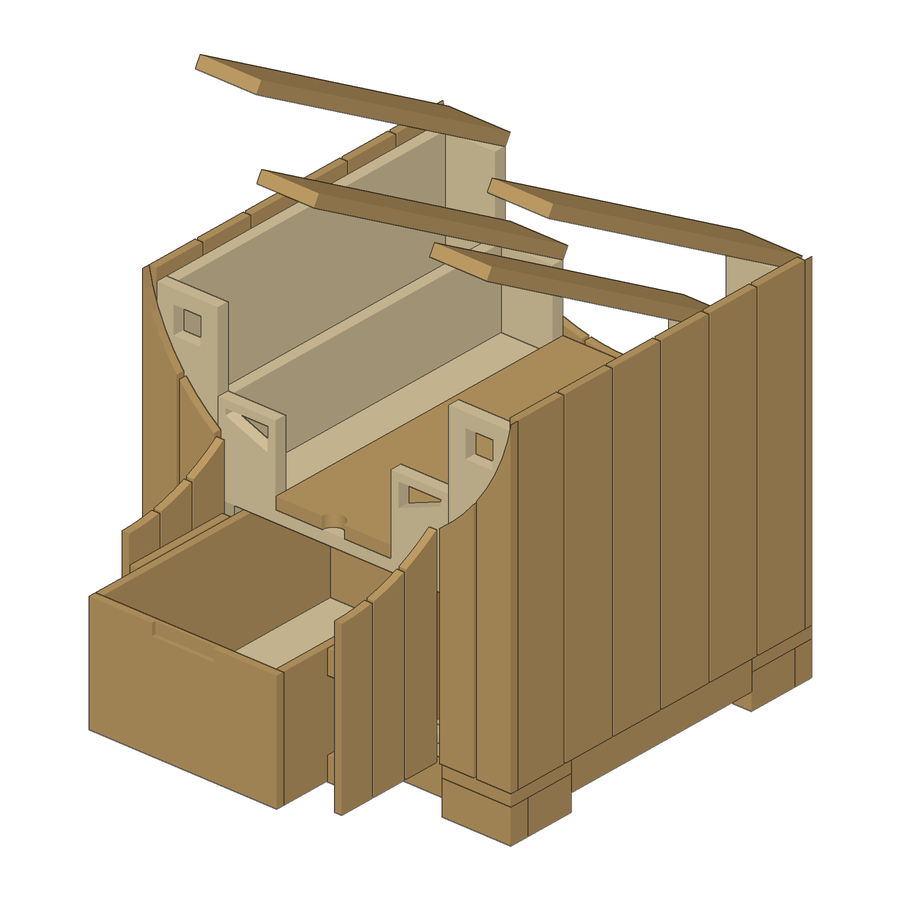
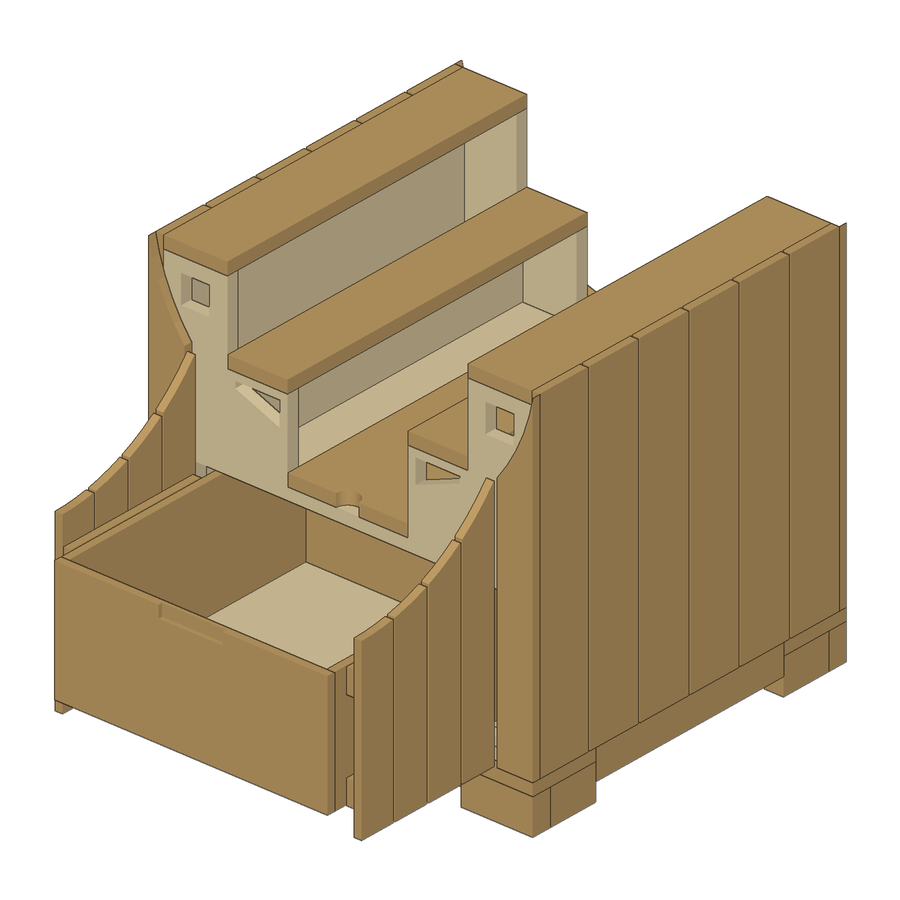
Cabinet: doors and drawer span the whole front; lids shown down
- door_span="full" (default) puts both door leaves and the pull-out drawer across the
  whole front between the corner slats (17 in drawer, 95 parts); "wide" and "centre"
  keep the narrower layouts.
- Showcase pose keeps the lids down (a sink sits on top); open_deg is opt-in.
- Tests, README, SKETCH_SPEC, cut list, drawings and renders regenerated;
  kernel interference check clean for closed, open, wide and single-door variants.

Claude-Session: https://claude.ai/code/session_017uaZNskFZj1b2HNuTtwSco

Changed region(s): [[0.0622, 0.0622, 0.9644, 0.9644], [0.7156, 0.8089, 0.7467, 0.84]]

diff --git a/src/fusionwright/cabinet.py b/src/fusionwright/cabinet.py
@@ -4,9 +4,9 @@ What the sketch shows and this generator models:
   * 24" W x 24" H x 22.5" D, vertical oak slats on all four sides (10 across front/back, 6 per side)
   * a large circular scoop: the front (and, by default, back) slat tops follow one arc from the two top corners
     down to the centre height, so the slats are real arc-cut parts
-  * a pair of hinged front doors across the middle three sections (the framed panel under the scoop in the 3/4
-    view), two hinges per door on the outer edges, push-to-open (no visible pull), opening onto one large bay that
-    holds a single pull-out drawer
+  * a pair of hinged front doors across the whole front between two fixed corner slats (the framed panel under the
+    scoop in the 3/4 view), two hinges per door on the outer edges, push-to-open (no visible pull), opening onto one
+    large bay that holds a single wide pull-out drawer
   * five hinged lids/doors side by side at three heights: towers 24", steps 19", centre 14"
   * stepped plywood carcass behind the slats; the carcass boxes stand proud of the arc; dark square openings on the
     tower fronts and dark wedge openings on the step fronts act as the finger pulls
@@ -57,7 +57,7 @@ def build_cabinet(
     door_open_deg: float = 0.0,
     door_pull: str = "push",
     door_leaves: int = 2,
-    door_span: str = "wide",
+    door_span: str = "full",
     drawer: bool = True,
     drawer_out: float = 0.0,
     drawer_depth: float = 18.0,
@@ -89,9 +89,9 @@ def build_cabinet(
         raise ValueError("door_pull must be 'push' (push-to-open, nothing visible) or 'bar' (slim vertical pull).")
     if not 0.0 <= door_open_deg <= 120.0:
         raise ValueError("door_open_deg must be between 0 and 120 degrees (0 = closed).")
-    if door_span not in ("wide", "centre"):
-        raise ValueError("door_span must be 'wide' (doors and drawer across the centre and both step sections, the "
-                         "default) or 'centre' (only the centre section).")
+    if door_span not in ("full", "wide", "centre"):
+        raise ValueError("door_span must be 'full' (doors and drawer across the whole front between two corner slats, "
+                         "the default), 'wide' (centre and both step sections) or 'centre' (centre section only).")
     if door_leaves not in (1, 2):
         raise ValueError("door_leaves must be 2 (a pair of doors, the default) or 1 (a single door hinged on the left).")
     if not 6.0 <= drawer_depth <= 20.0:
@@ -116,9 +116,14 @@ def build_cabinet(
     for w in section_widths:
         x_edges.append(x_edges[-1] + w)
     y_front, y_back = skin_t, depth - skin_t        # inside faces of the front / back skin
-    wide = bool(door) and door_span == "wide"
-    sec_a, sec_b = (1, 3) if wide else (2, 2)       # first / last section behind the doors
+    sec_a, sec_b = {"full": (0, 4), "wide": (1, 3), "centre": (2, 2)}[door_span]   # first / last section behind the doors
+    merged = bool(door) and door_span != "centre"   # one front panel and one drawer bay across several sections
     x_lo, x_hi = x_edges[sec_a], x_edges[sec_b + 1]
+    sw_x, pitch_x = _slats(width, front_slats, slat_gap)
+    # the bay runs between the end walls (full) or between the tower dividers (wide); slides sit on those faces
+    bay_lo = x_edges[sec_a] + (ply_t if sec_a == 0 else ply_t / 2)
+    bay_hi = x_edges[sec_b + 1] - (ply_t if sec_b == 4 else ply_t / 2)
+    bay_top = heights[2] - lid_t
     carcass_z = base_z + ply_t
 
     p = Project(
@@ -147,28 +152,36 @@ def build_cabinet(
 
     # ---------------------------------------------------------------- plywood carcass (my proposal)
     box_board("Bottom panel", "bottom panel", PLY, skin_t, skin_t, base_z, inner_w, inner_d, ply_t, "x")
-    if wide:                                        # one front wall across the centre and both step sections
+    if merged:                                      # one front wall across all the sections behind the doors
         tops = [heights[i] - lid_t for i in range(5)]
-        pts = [(x_edges[1], carcass_z), (x_edges[4], carcass_z), (x_edges[4], tops[3]), (x_edges[3], tops[3]),
-               (x_edges[3], tops[2]), (x_edges[2], tops[2]), (x_edges[2], tops[1]), (x_edges[1], tops[1])]
+        pts = [(x_edges[sec_a], carcass_z), (x_edges[sec_b + 1], carcass_z)]
+        for i in range(sec_b, sec_a - 1, -1):       # stepped top edge, right to left
+            pts += [(x_edges[i + 1], tops[i]), (x_edges[i], tops[i])]
         ops = [sh.prism("xz", sh.polygon(pts), y_front, y_front + ply_t)]
-        ox0, ox1 = x_lo + 0.4, x_hi - 0.4
+        if door_span == "full":                     # leave one corner slat plus plywood stile each side for the hinges
+            ox0, ox1 = pitch_x + 0.1, width - pitch_x - 0.1
+        else:
+            ox0, ox1 = x_lo + 0.4, x_hi - 0.4
         oz0, oz1 = carcass_z + 0.5, tops[2] - 0.75
         ops.append(sh.box(ox0, y_front - 0.05, oz0, ox1 - ox0, ply_t + 0.1, oz1 - oz0, "cut"))
         door_open_box.update(x0=ox0, x1=ox1, z0=oz0, z1=oz1)
-        for i in (1, 3):                            # the wedge finger openings stay on the step sections
-            zt = tops[i] - 0.5
-            xa, xb = x_edges[i] + 0.5, x_edges[i + 1] - 0.5
-            wp = ([(xa, zt), (xb, zt), (xb, zt - 1.5), (xa, zt - 0.4)] if i == 1
-                  else [(xa, zt), (xb, zt), (xb, zt - 0.4), (xa, zt - 1.5)])
-            ops.append(sh.prism("xz", sh.polygon(wp), y_front - 0.05, y_front + ply_t + 0.05, "cut"))
-        add(Board.from_shape("Front wall S2-S4", "front wall", PLY, ops, None, "x",
-                             f"one panel across the three middle sections; {ox1 - ox0:.1f} in wide door opening for "
-                             "the doors and drawer, wedge finger openings above"))
+        for i in range(sec_a, sec_b + 1):           # the finger openings stay on the tower and step sections
+            if i in (0, 4):
+                s_, cxm = 1.75, x_edges[i] + section_widths[i] / 2
+                ops.append(sh.box(cxm - s_ / 2, y_front - 0.05, tops[i] - 0.9 - s_, s_, ply_t + 0.1, s_, "cut"))
+            elif i in (1, 3):
+                zt = tops[i] - 0.5
+                xa, xb = x_edges[i] + 0.5, x_edges[i + 1] - 0.5
+                wp = ([(xa, zt), (xb, zt), (xb, zt - 1.5), (xa, zt - 0.4)] if i == 1
+                      else [(xa, zt), (xb, zt), (xb, zt - 0.4), (xa, zt - 1.5)])
+                ops.append(sh.prism("xz", sh.polygon(wp), y_front - 0.05, y_front + ply_t + 0.05, "cut"))
+        add(Board.from_shape(f"Front wall S{sec_a + 1}-S{sec_b + 1}", "front wall", PLY, ops, None, "x",
+                             f"one panel across sections {sec_a + 1}-{sec_b + 1}; {ox1 - ox0:.1f} in wide door opening "
+                             "for the doors and drawer, finger openings above"))
     for i in range(5):
         wall_top = heights[i] - lid_t
         for side, y0 in (("Front", y_front), ("Back", y_back - ply_t)):
-            if wide and side == "Front" and i in (1, 2, 3):
+            if merged and side == "Front" and sec_a <= i <= sec_b:
                 continue
             sx0, sw = x_edges[i], section_widths[i]
             ops = [sh.box(sx0, y0, carcass_z, sw, ply_t, wall_top - carcass_z)]
@@ -178,7 +191,7 @@ def build_cabinet(
                 top = wall_top - 0.9
                 ops.append(sh.box(cx - s / 2, y0 - 0.05, top - s, s, ply_t + 0.1, s, "cut"))
                 note = "1-3/4 in square finger opening"
-            elif side == "Front" and i == 2 and door and not wide:  # access opening behind the front door
+            elif side == "Front" and i == 2 and door and not merged:  # access opening behind the front door
                 ox0, ox1 = sx0 + 0.4, sx0 + sw - 0.4
                 oz0, oz1 = carcass_z + 0.5, wall_top - 0.75
                 ops.append(sh.box(ox0, y0 - 0.05, oz0, ox1 - ox0, ply_t + 0.1, oz1 - oz0, "cut"))
@@ -198,18 +211,21 @@ def build_cabinet(
     box_board("End wall right", "end wall", PLY, width - skin_t - ply_t, y_front + ply_t, carcass_z, ply_t, wall_d,
               end_h, "y")
     for k in range(1, 5):
-        if wide and k in (2, 3):                    # the drawer bay runs through the middle: no dividers inside it
+        div_top = min(heights[k - 1], heights[k]) - lid_t
+        z_lo = carcass_z
+        if merged and sec_a <= k - 1 and k <= sec_b:  # inside the drawer bay: only the part above the shelves is kept
+            z_lo = bay_top
+        if div_top - z_lo < 0.5:
             continue
-        div_h = min(heights[k - 1], heights[k]) - lid_t - carcass_z
-        box_board(f"Divider D{k}", "divider", PLY, x_edges[k] - ply_t / 2, y_front + ply_t, carcass_z, ply_t, wall_d,
-                  div_h, "y")
+        box_board(f"Divider D{k}", "divider", PLY, x_edges[k] - ply_t / 2, y_front + ply_t, z_lo, ply_t, wall_d,
+                  div_top - z_lo, "y")
 
-    if wide:                                        # shelves over the drawer bay roof the step compartments
-        bay_top = heights[2] - lid_t
-        for nm, xa, xb in (("Bay shelf S2", x_edges[1] + ply_t / 2, x_edges[2]),
-                           ("Bay shelf S4", x_edges[3], x_edges[4] - ply_t / 2)):
-            box_board(nm, "shelf", PLY, xa, y_front + ply_t, bay_top - ply_t, xb - xa, wall_d, ply_t, "x",
-                      "floor of the step compartment above, roof of the drawer bay")
+    if merged:                                      # shelves roof the drawer bay and floor the compartments above it
+        for nm, xa, xb in (("Bay shelf left", bay_lo, x_edges[2]), ("Bay shelf right", x_edges[3], bay_hi)):
+            if xb - xa > 0.5:
+                box_board(nm, "shelf", PLY, xa, y_front + ply_t, bay_top - ply_t, xb - xa, wall_d, ply_t, "x",
+                          "roof of the drawer bay, floor of the compartments above; rest it on cleats screwed to the "
+                          "front, back and divider walls")
 
     # ---------------------------------------------------------------- hinged lids / doors (hinged at the back)
     for i in range(5):
@@ -227,10 +243,10 @@ def build_cabinet(
         p.hardware.append({"item": "Butt hinge 2 in", "qty": 2, "for": f"Lid {labels[i][:2]}"})
 
     # ---------------------------------------------------------------- vertical oak slats, four sides
-    sw_x, pitch_x = _slats(width, front_slats, slat_gap)
-    # front slats whose centre falls inside the door span form the door(s)
+    # front slats whose centre falls inside the door span form the door(s); in 'full' the corner slats stay fixed
+    sel_lo, sel_hi = (x_lo + pitch_x, x_hi - pitch_x) if door_span == "full" else (x_lo, x_hi)
     door_js = [j for j in range(front_slats)
-               if door and x_lo < j * pitch_x + sw_x / 2 < x_hi]
+               if door and sel_lo < j * pitch_x + sw_x / 2 < sel_hi]
     if door and not door_js:
         raise ValueError("The door span is too narrow for a door: use fewer front_slats or a wider section.")
     if door and door_leaves == 2 and len(door_js) < 2:
@@ -300,12 +316,12 @@ def build_cabinet(
     # ---------------------------------------------------------------- pull-out drawer behind the doors
     if door_js and drawer:
         t_d = 0.5                                                     # drawer sides / front / back (solid oak)
-        cx_c = (x_lo + x_hi) / 2
-        dw = (x_hi - x_lo - ply_t) - 1.0                              # 1/2 in each side for the slides
+        cx_c = (bay_lo + bay_hi) / 2
+        dw = (bay_hi - bay_lo) - 1.0                                  # 1/2 in each side for the slides
         # doors standing open at 90 deg reach 1 in in front of their hinge edge: keep the drawer clear of them
         reach = 1.0 + 0.05
-        left_lim = next((lf["x0"] + reach for lf in leaves if lf["hinge"] == "left"), x_lo)
-        right_lim = next((lf["x1"] - reach for lf in leaves if lf["hinge"] == "right"), x_hi)
+        left_lim = next((lf["x0"] + reach for lf in leaves if lf["hinge"] == "left"), bay_lo)
+        right_lim = next((lf["x1"] - reach for lf in leaves if lf["hinge"] == "right"), bay_hi)
         half_w = min(dw / 2, cx_c - left_lim, right_lim - cx_c)
         dw = 2 * half_w
         dx0 = cx_c - dw / 2
@@ -317,7 +333,7 @@ def build_cabinet(
         front_ops = [sh.box(dx0, dy0, dz0, dw, t_d, dh),
                      sh.box(cx_c - 2.0, dy0 - 0.05, dz0 + dh - 0.75, 4.0, 0.3, 0.8, "cut")]    # finger notch, top edge
         add(Board.from_shape("Drawer front", "drawer", OAK, front_ops, None, "x",
-                             "hidden behind the doors; 4 in finger notch in the top edge instead of a handle"))
+                             "hidden behind the doors; finger notch in the top edge instead of a handle"))
         box_board("Drawer back", "drawer", OAK, dx0, dy0 + drawer_depth - t_d, dz0, dw, t_d, dh, "x")
         for sd, xs in (("left", dx0), ("right", dx0 + dw - t_d)):
             box_board(f"Drawer side {sd}", "drawer", OAK, xs, dy0 + t_d, dz0, t_d, drawer_depth - 2 * t_d, dh, "y")
@@ -373,11 +389,12 @@ def build_cabinet(
 
     p.notes += [
         "Front doors: the framed panel under the scoop in the 3/4 view is a pair of doors with two hinges per door on "
-        "the outer edges, push-to-open so nothing shows on the front. With door_span='wide' (default) they span the "
-        "centre and both step sections, so the doors open onto one big bay holding a single pull-out drawer on 18 in "
-        "full-extension slides, and the step lids open onto compartments above the bay. door_span='centre' keeps the "
-        "doors and drawer to the centre section only; door_leaves=1 gives a single door, door=False none, "
-        "drawer=False an empty bay; door_open_deg=90 and drawer_out=12 show it open.",
+        "the outer edges, push-to-open so nothing shows on the front. With door_span='full' (default) they span the "
+        "whole front between a fixed corner slat on each side, onto one big bay holding a single wide pull-out drawer "
+        "on 18 in full-extension slides; shelves over the bay roof the tower and step compartments above it, which "
+        "still open through their lids. door_span='wide' limits it to the centre and step sections, 'centre' to the "
+        "centre section; door_leaves=1 gives a single door, door=False none, drawer=False an empty bay; "
+        "door_open_deg=90 and drawer_out=12 show it open.",
         "Read from the sketch: arc-cut slat tops, five lids at 24/19/14 in, stepped boxes, L-shaped corner feet hiding "
         "four casters (plate screwed under a top plate), slats stopping above the floor on an apron.",
         "Interpretations to confirm with the designer: the dark squares (tower fronts) and dark wedges (step fronts) "

diff --git a/tests/unit/test_core.py b/tests/unit/test_core.py
@@ -43,19 +43,20 @@ def test_sketch_details_are_present():
     assert sum(n.endswith("wheel") for n in names) == 4 and sum(n.endswith("top plate") for n in names) == 4
     # wedge and square openings are cuts through the plywood fronts
     cuts = [b for b in p.boards if b.shape and any(o["op"] == "cut" for o in b.shape)]
-    assert len(cuts) >= 5
+    assert len(cuts) >= 3
 
 
 def test_front_doors_open_onto_the_centre_compartment_with_a_drawer():
     p = build_cabinet()
     doors = [b for b in p.boards if "(door" in b.name]
-    assert len(doors) == 6 and sum(b.name.startswith("Door") and "batten" in b.name for b in p.boards) == 4
-    assert {b.name.split("(")[1] for b in doors} == {"door L)", "door R)"}          # two leaves, three slats each
-    wall = next(b for b in p.boards if b.name == "Front wall S2-S4")      # one panel across centre + both steps
+    assert len(doors) == 8 and sum(b.name.startswith("Door") and "batten" in b.name for b in p.boards) == 4
+    assert {b.name.split("(")[1] for b in doors} == {"door L)", "door R)"}          # two leaves, four slats each
+    wall = next(b for b in p.boards if b.name == "Front wall S1-S5")      # one panel across the whole front
     assert any(o["op"] == "cut" for o in wall.shape)                     # the opening the doors cover
     assert not any(b.name in ("Divider D2", "Divider D3") for b in p.boards)       # the bay runs through the middle
-    assert {b.name for b in p.boards if b.group == "shelf"} == {"Bay shelf S2", "Bay shelf S4"}
+    assert {b.name for b in p.boards if b.group == "shelf"} == {"Bay shelf left", "Bay shelf right"}
     narrow = build_cabinet(door_span="centre")
+    assert len([b for b in build_cabinet(door_span="wide").boards if "(door" in b.name]) == 6
     assert len([b for b in narrow.boards if "(door" in b.name]) == 4 and any(b.name == "Divider D2" for b in narrow.boards)
     assert next(b for b in p.boards if b.name == "Drawer front").sx > 3 * next(b for b in narrow.boards if b.name == "Drawer front").sx / 1.5
     hinge = next(h for h in p.hardware if "Butt hinge 1-1/2" in h["item"])
@@ -79,7 +80,7 @@ def test_front_doors_open_onto_the_centre_compartment_with_a_drawer():
     out_front = next(b for b in opened.boards if b.name == "Drawer front")
     assert out_front.y == pytest.approx(next(b for b in p.boards if b.name == "Drawer front").y - 12)
     assert not any("(door" in b.name for b in build_cabinet(door=False).boards)
-    assert len([b for b in build_cabinet(door_leaves=1).boards if "(door)" in b.name]) == 6
+    assert len([b for b in build_cabinet(door_leaves=1).boards if "(door)" in b.name]) == 8
     assert not any(b.group == "drawer" for b in build_cabinet(drawer=False).boards)
 
 

diff --git a/src/fusionwright/server.py b/src/fusionwright/server.py
@@ -248,14 +248,14 @@ def wood_design_cabinet(width: float = 24.0, depth: float = 22.5, tower_h: float
                         skin_t: float = 0.5, ply_t: float = 0.75, lid_t: float = 0.75, base_z: float = 3.25,
                         caster_h: float = 2.5, foot_arm: float = 4.5, arc_on_back: bool = True,
                         open_deg: float = 0.0, door: bool = True, door_open_deg: float = 0.0,
-                        door_pull: str = "push", door_leaves: int = 2, door_span: str = "wide", drawer: bool = True,
+                        door_pull: str = "push", door_leaves: int = 2, door_span: str = "full", drawer: bool = True,
                         drawer_out: float = 0.0, drawer_depth: float = 18.0,
                         section_widths: list[float] | None = None,
                         name: str = "Rolling oak slat cabinet") -> dict:
     """Design the rolling oak-slat cabinet from the hand sketch (inches): vertical oak slats on four sides, a circular
     scoop cut through the slat tops, five hinged lids at 24/19/14 in, stepped plywood boxes with finger openings,
-    a pair of push-to-open front doors (2 hinges each) across the centre and both step sections (door_span='centre'
-    for the centre only) onto one large bay holding a pull-out drawer (door_open_deg=90 and drawer_out=12 show them open; door_pull='bar' adds slim vertical pulls;
+    a pair of push-to-open front doors (2 hinges each) across the whole front between two fixed corner slats (door_span='wide' / 'centre'
+    for less) onto one large bay holding a pull-out drawer (door_open_deg=90 and drawer_out=12 show them open; door_pull='bar' adds slim vertical pulls;
     door_leaves=1 gives one door), and four L-shaped corner feet that hide swivel casters. open_deg shows the lids
     hinged open (try 30).
     Writes cut list, three-view drawing, sheet layout, STL, OBJ, project.json and, if CadQuery is installed, an exact

diff --git a/tests/unit/test_mcp_server.py b/tests/unit/test_mcp_server.py
@@ -114,7 +114,7 @@ def test_cad_check_and_export_on_the_cabinet(tmp_path):
             await c.call_tool("wood_design_cabinet", {"open_deg": 30})
             chk = await c.call_tool("cad_check", {})
             data = json.loads(_text(chk))
-            assert data["parts"] == 97 and data["all_valid"] is True and data["problems"] == []
+            assert data["parts"] == 95 and data["all_valid"] is True and data["problems"] == []
             tall = json.loads(_text(await c.call_tool("cad_check", {"expected_size_in": [24, 22.5, 24]})))
             assert tall["passed"] is False and "Z size" in tall["problems"][0]      # open lids rise above 24 in
             ex = await c.call_tool("cad_export", {"format": "step"})

diff --git a/README.md b/README.md
@@ -90,7 +90,7 @@ The core tools know nothing about furniture. Each `fusion_*` / `cad_*` call stan
 |---|---|---|
 | [`examples/enclosure_cadquery.py`](examples/enclosure_cadquery.py) | open source (`cad_run`) | shell, fillets, hole patterns, slots, multi-part colours |
 | [`examples/flange_fusion_run.py`](examples/flange_fusion_run.py) | Fusion (`fusion_run`) | sketches, extrude/join/cut, picking profiles by area, checking against hand arithmetic |
-| [Woodworking add-on](#woodworking-add-on-an-end-to-end-example) | both | a 97-part design, cut list, drawings, hinged parts, built in Fusion |
+| [Woodworking add-on](#woodworking-add-on-an-end-to-end-example) | both | a 95-part design, cut list, drawings, hinged parts, built in Fusion |
 
 ## Make your own add-on
 
@@ -102,15 +102,15 @@ Describe a piece of furniture; get a verified Fusion model, a cut list, a sheet-
 
 ![Rolling oak slat cabinet, rendered by Fusion](docs/examples/woodworking/render.png)
 
-> Built, rendered and checked end to end through this server, from a hand sketch: 97 named parts (arc-cut slats, hinged lids, a pair of push-to-open front doors with two hinges each across the middle three sections, one wide pull-out drawer behind them, finger openings, L-shaped feet hiding four casters), 24 x 22.5 x 24 in, zero interferences, one 4x8 plywood sheet, ~10.9 board feet of oak (12.6 to buy). The Fusion model and the open-source CadQuery model agree to the cubic inch. How the sketch was read: [SKETCH_SPEC.md](docs/examples/woodworking/SKETCH_SPEC.md); the generated [cut list](docs/examples/woodworking/example_cutlist.md).
+> Built, rendered and checked end to end through this server, from a hand sketch: 95 named parts (arc-cut slats, hinged lids, a pair of push-to-open front doors with two hinges each spanning the whole front between the corner slats, one wide pull-out drawer behind them, finger openings, L-shaped feet hiding four casters), 24 x 22.5 x 24 in, zero interferences, one 4x8 plywood sheet, ~11.2 board feet of oak. The Fusion model and the open-source CadQuery model agree to the cubic inch. How the sketch was read: [SKETCH_SPEC.md](docs/examples/woodworking/SKETCH_SPEC.md); the generated [cut list](docs/examples/woodworking/example_cutlist.md).
 
-![Same cabinet with the lids and both front doors open and the drawer pulled out, built with no Autodesk software](docs/examples/woodworking/open_iso_opensource.png)
+![Same cabinet with both front doors open and the drawer pulled out (the lids stay down: a sink sits on top), built with no Autodesk software](docs/examples/woodworking/open_iso_opensource.png)
 
 ![The same open pose built in Fusion](docs/examples/woodworking/fusion_open_render.png)
 
 ![Builder drawing generated with no CAD](docs/examples/woodworking/drawing_three_view.svg)
 
-Try: *"Design a 24-inch rolling oak slat cabinet with three stepped lids, double push-to-open front doors and a pull-out drawer, build it in Fusion, check it and show me."* Details: `open_deg`, `door_open_deg` and `drawer_out` pose the lids, doors and drawer open; `door_pull="bar"` swaps the hidden push latches for slim vertical pulls; `door_span="centre"` limits the doors and drawer to the centre section; `door_leaves=1` gives a single door; `door=False` / `drawer=False` remove them.
+Try: *"Design a 24-inch rolling oak slat cabinet with three stepped lids, double push-to-open front doors and a pull-out drawer, build it in Fusion, check it and show me."* Details: `door_open_deg` and `drawer_out` pose the doors and drawer open (`open_deg` also lifts the lids, off by default); `door_pull="bar"` swaps the hidden push latches for slim vertical pulls; `door_span` is `"full"` (default, the whole front), `"wide"` (middle three sections) or `"centre"`; `door_leaves=1` gives a single door; `door=False` / `drawer=False` remove them.
 
 ## How it compares
 
@@ -124,7 +124,7 @@ See [SECURITY.md](SECURITY.md). In short: loopback only, bearer token (`~/.fusio
 ## What's tested
 
 * 30 unit tests: pure Python (including a signed-volume check that exported meshes are outward-facing and a proof that no cabinet boards overlap), the add-in's HTTP layer with a stubbed Fusion, a real stdio MCP round trip, and the open-source CAD backend (skipped when CadQuery is not installed).
-* Live tests against a real Fusion: build and kernel-verify the 97-part cabinet, views that must differ from each other, 5 export formats, a real render, rollback, API lookup, and a full MCP client round trip that returns images.
+* Live tests against a real Fusion: build and kernel-verify the 95-part cabinet, views that must differ from each other, 5 export formats, a real render, rollback, API lookup, and a full MCP client round trip that returns images.
 * A 30-case capability suite (`tests/integration/capability_suite.py`) covering sketches, constraints, extrude/cut/revolve/sweep/loft, fillet/shell/chamfer/hole, patterns, booleans, components + joints, parameters, timeline edits, materials, measurement, 8 export formats, STEP re-import, CAM setup creation, configurations, rendering and more.
 
 See [docs/COVERAGE.md](docs/COVERAGE.md) for what the Fusion API can and cannot do and [docs/GOTCHAS.md](docs/GOTCHAS.md) for API traps found along the way.

diff --git a/docs/examples/woodworking/example_cutlist.md b/docs/examples/woodworking/example_cutlist.md
@@ -10,27 +10,27 @@
 | 4 | White oak (solid) | 3/4" | 4 1/2" | 4 1/2" | Foot FL top plate, Foot FR top plate, Foot BL top plate +1 more |
 | 12 | White oak (solid) | 1/2" | 3 1/2" | 20 3/4" | Slat left 01, Slat left 02, Slat left 03 +9 more |
 | 4 | White oak (solid) | 1/2" | 2 1/4" | 20 3/4" | Slat front 01, Slat front 10, Slat back 01 +1 more |
+| 2 | White oak (solid) | 1/2" | 7 1/2" | 17 1/16" | Drawer front, Drawer back |
 | 2 | White oak (solid) | 1/2" | 7 1/2" | 17" | Drawer side left, Drawer side right |
-| 4 | White oak (solid) | 1/2" | 2 1/4" | 15 3/8" | Slat front 02, Slat front 09, Slat back 02 +1 more |
+| 4 | White oak (solid) | 1/2" | 2 1/4" | 15 3/8" | Slat front 02 (door L), Slat front 09 (door R), Slat back 02 +1 more |
 | 2 | White oak (solid) | 1/2" | 1 7/8" | 15" | Apron front, Apron back |
 | 2 | White oak (solid) | 1/2" | 1 7/8" | 13 1/2" | Apron left, Apron right |
 | 4 | White oak (solid) | 1/2" | 2 1/4" | 13 1/8" | Slat front 03 (door L), Slat front 08 (door R), Slat back 03 +1 more |
-| 2 | White oak (solid) | 1/2" | 7 1/2" | 12 1/4" | Drawer front, Drawer back |
 | 4 | White oak (solid) | 1/2" | 2 1/4" | 11 3/4" | Slat front 04 (door L), Slat front 07 (door R), Slat back 04 +1 more |
 | 4 | White oak (solid) | 1/2" | 2 1/4" | 11" | Slat front 05 (door L), Slat front 06 (door R), Slat back 05 +1 more |
-| 4 | White oak (solid) | 1/2" | 1 1/2" | 6 15/16" | Door L batten low, Door L batten high, Door R batten low +1 more |
+| 4 | White oak (solid) | 1/2" | 1 1/2" | 9 5/16" | Door L batten low, Door L batten high, Door R batten low +1 more |
 | 1 | Birch plywood | 3/4" | 21 1/2" | 23" | Bottom panel |
+| 1 | Birch plywood | 3/4" | 19 1/4" | 23" | Front wall S1-S5 |
 | 2 | Birch plywood | 3/4" | 19 1/4" | 20" | End wall left, End wall right |
-| 2 | Birch plywood | 3/4" | 14 1/4" | 20" | Divider D1, Divider D4 |
-| 2 | Birch plywood | 3/4" | 3 3/8" | 20" | Bay shelf S2, Bay shelf S4 |
-| 4 | Birch plywood | 3/4" | 4" | 19 1/4" | Front wall S1, Back wall S1, Front wall S5 +1 more |
-| 1 | Birch plywood | 3/4" | 14 1/4" | 15" | Front wall S2-S4 |
+| 2 | Birch plywood | 3/4" | 7" | 20" | Bay shelf left, Bay shelf right |
+| 2 | Birch plywood | 3/4" | 5" | 20" | Divider D1, Divider D4 |
+| 2 | Birch plywood | 3/4" | 4" | 19 1/4" | Back wall S1, Back wall S5 |
 | 2 | Birch plywood | 3/4" | 3 3/4" | 14 1/4" | Back wall S2, Back wall S4 |
 | 1 | Birch plywood | 3/4" | 7 1/2" | 9 1/4" | Back wall S3 |
-| 1 | Birch plywood | 1/4" | 11 1/4" | 17" | Drawer bottom |
+| 1 | Birch plywood | 1/4" | 16 1/16" | 17" | Drawer bottom |
 
-**Solid lumber:** 10.87 board feet net, buy about 12.5 bf (+15% waste).
-**Sheet goods:** 19.85 sq ft net (see the nesting layout for sheets to buy).
+**Solid lumber:** 11.17 board feet net, buy about 12.8 bf (+15% waste).
+**Sheet goods:** 19.38 sq ft net (see the nesting layout for sheets to buy).
 
 ## Hardware
 
@@ -48,7 +48,7 @@
 
 ## Notes
 
-- Front doors: the framed panel under the scoop in the 3/4 view is a pair of doors with two hinges per door on the outer edges, push-to-open so nothing shows on the front. With door_span='wide' (default) they span the centre and both step sections, so the doors open onto one big bay holding a single pull-out drawer on 18 in full-extension slides, and the step lids open onto compartments above the bay. door_span='centre' keeps the doors and drawer to the centre section only; door_leaves=1 gives a single door, door=False none, drawer=False an empty bay; door_open_deg=90 and drawer_out=12 show it open.
+- Front doors: the framed panel under the scoop in the 3/4 view is a pair of doors with two hinges per door on the outer edges, push-to-open so nothing shows on the front. With door_span='full' (default) they span the whole front between a fixed corner slat on each side, onto one big bay holding a single wide pull-out drawer on 18 in full-extension slides; shelves over the bay roof the tower and step compartments above it, which still open through their lids. door_span='wide' limits it to the centre and step sections, 'centre' to the centre section; door_leaves=1 gives a single door, door=False none, drawer=False an empty bay; door_open_deg=90 and drawer_out=12 show it open.
 - Read from the sketch: arc-cut slat tops, five lids at 24/19/14 in, stepped boxes, L-shaped corner feet hiding four casters (plate screwed under a top plate), slats stopping above the floor on an apron.
 - Interpretations to confirm with the designer: the dark squares (tower fronts) and dark wedges (step fronts) are modelled as finger openings through the plywood front wall; the tilted blocks in the 3/4 view are the lids shown open (use open_deg); the scoop is cut in both the front and the back skin (arc_on_back).
 - My proposal, not in the sketch: plywood carcass, dividers, lid hinges at the back, centre-lid finger notch, apron height, caster size.

diff --git a/docs/examples/woodworking/SKETCH_SPEC.md b/docs/examples/woodworking/SKETCH_SPEC.md
@@ -10,13 +10,13 @@ column "Certainty" says how sure the reading is.
 | 2 | Vertical slats on all four faces (about 10 across front/back, 6 along each side) | `front_slats=10`, `side_slats=6`, 0.15" gaps, 1/2" oak | counted |
 | 3 | One large circular scoop: the slat tops follow an arc from the two top corners to a low point in the middle | each front (and back) slat is an extruded profile whose top edge is a true circular arc (R = 21.0" for the default sag of 10") | high |
 | 4 | Five strips from front to back in the top view (about 4 / 3.75 / 7.5 / 3.75 / 4 in) at three heights: 24, 19, 14, 19, 24 | five hinged lids at those heights; widths from the measured ratio (`section_widths` overrides) | high |
-| 5 | Tilted blocks above the scoop in the 3/4 view | the lids drawn open; `open_deg=30` poses the four side lids open (hinged at the back) | medium |
+| 5 | Tilted blocks above the scoop in the 3/4 view | the lids drawn open in the sketch; the model keeps them down by default because a sink sits on top (`open_deg=30` poses the four side lids open, hinged at the back) | medium |
 | 6 | Dark squares on the two tall boxes | 1 3/4" square finger openings through the plywood front wall | medium |
 | 7 | Dark wedges on the two step boxes | wedge-shaped openings (a right trapezoid) through the plywood front wall | medium |
 | 8 | Slat panel stops above the floor; a band between the feet in the frontal and lateral views | oak apron on all four sides between the feet | high |
 | 9 | Four L-shaped corner feet in plan view, each with a circle (wheel) inside | each foot is two oak walls forming an L plus a top plate; a swivel caster (plate, swivel, two fork plates, wheel) is hidden inside | high |
 | 10 | Inset drawing: wheel mounted under a plate | caster plate screwed under the foot top plate; wheel clears the floor line by design | high |
-| 11 | A framed panel of vertical bars under the scoop in the 3/4 view, described by the designer as two doors on the front, two hinges on each door, with a large space inside for one pull-out drawer; the designer then pointed out the spaces left and right of the centre should be used too | front doors: the six front slats across the centre and both step sections form two leaves (three slats on two oak battens each), two butt hinges per door on the outer edges, push-to-open with a hidden magnetic latch on each so nothing shows on the front (`door_pull="bar"` adds slim vertical pulls instead). They open onto one bay, 14 in wide, through a single 14 1/4 in opening in one plywood front panel (the dividers D2 and D3 are dropped). Inside, one oak drawer 12 1/4 in wide x 18 in deep on full-extension slides, narrowed so it clears the open doors, with a finger notch in its top edge; shelves over the bay roof the step compartments above, which still open through their lids. `door_span="centre"` keeps it to the centre section, `door_leaves=1` gives one door, `door=False` / `drawer=False` remove them, `door_open_deg=90` and `drawer_out=12` show it open | high (designer's words) for the doors and drawer, medium for the exact extent |
+| 11 | A framed panel of vertical bars under the scoop in the 3/4 view, described by the designer as two doors on the front, two hinges on each door, with a large space inside for one pull-out drawer; the designer then asked for the spaces left and right to be used too, and for the lids to be shown down (a sink sits on top) | front doors: the eight front slats between the two corner slats form two leaves (four slats on two oak battens each), two butt hinges per door on the outer edges, push-to-open with a hidden magnetic latch on each so nothing shows on the front (`door_pull="bar"` adds slim vertical pulls instead). They open onto one bay, about 18 in wide, through a single opening in one plywood front panel across the whole front (dividers D1 and D4 only keep the part above the bay). Inside, one oak drawer 17 in wide x 18 in deep on full-extension slides, narrowed so it clears the open doors, with a finger notch in its top edge; shelves over the bay roof the step compartments above, which still open through their lids. `door_span="wide"` (middle three sections) or `"centre"` keep it narrower, `door_leaves=1` gives one door, `door=False` / `drawer=False` remove them, `door_open_deg=90` and `drawer_out=12` show it open (lids stay down) | high (designer's words) for the doors and drawer, medium for the exact extent |
 | 12 | Small notch at the front of the top strip | half-round finger notch in the centre lid | low |
 
 Not in the sketch (my engineering proposal, flagged in `project.notes`): the plywood carcass behind the slats, the
